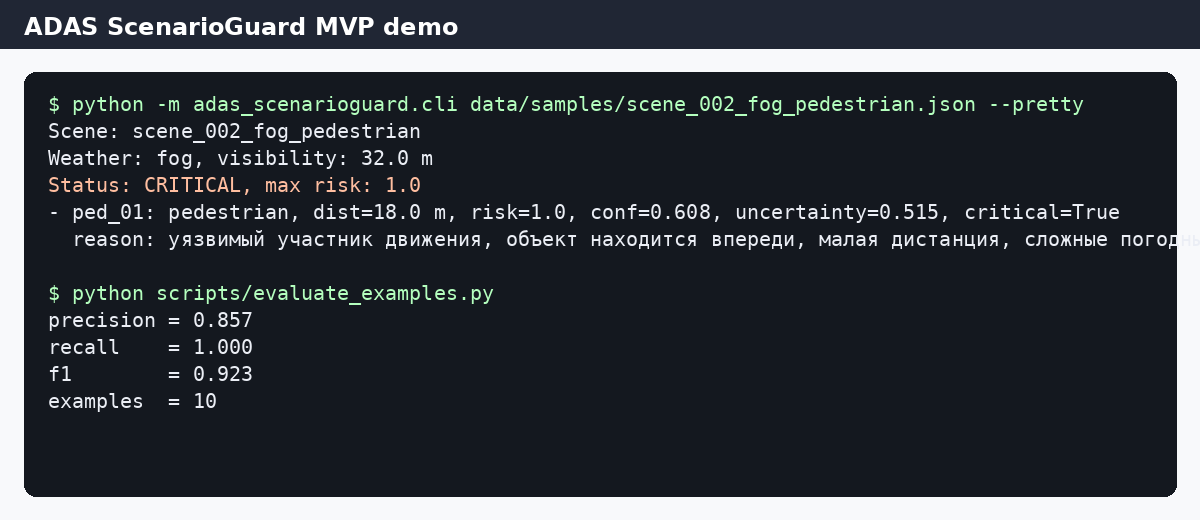
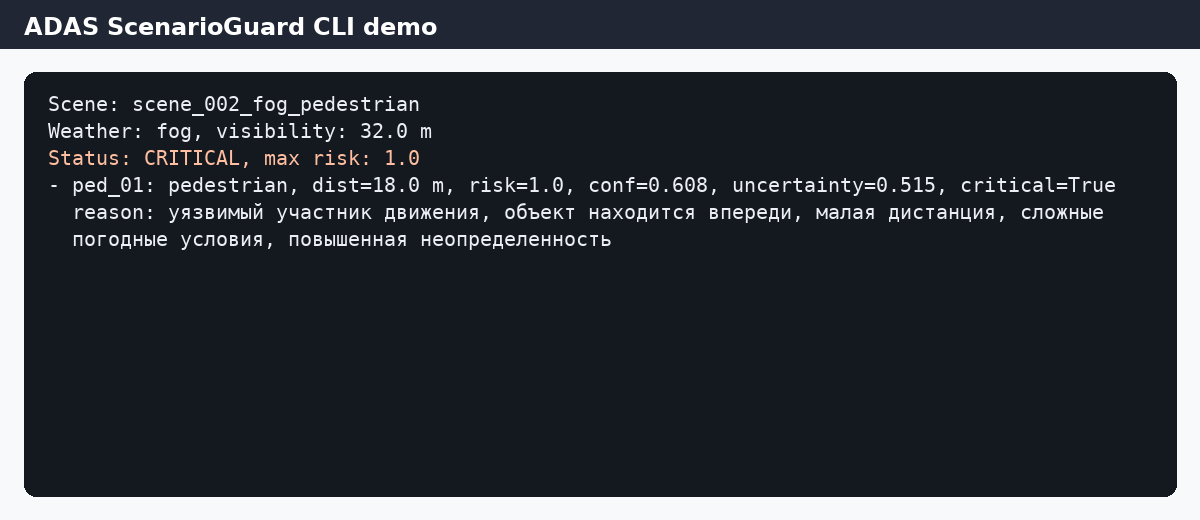
Clean public repository for final VKR package

diff --git a/scripts/export_results.py b/scripts/export_results.py
@@ -32,7 +32,7 @@ def write_reproducibility(metrics: dict) -> None:
 ## Окружение
 
 - Python: 3.10 или новее
-- Node.js: 20 или новее для сборки презентации
+- Node.js: 20 или новее для вспомогательных графических скриптов
 - ОС проверки: Windows
 - Вычислительный контур: CPU-friendly табличная модель
 
@@ -53,10 +53,7 @@ python scripts/train.py
 python scripts/evaluate.py
 python scripts/make_figures.py
 python scripts/make_diagrams.py
-python scripts/export_report_assets.py
 python scripts/export_results.py
-python scripts/build_documents.py
-node scripts/build_presentation.mjs
 python -m pytest -q
 ```
 
@@ -82,7 +79,7 @@ python -m pytest -q
 - F1: {primary["f1"]}
 - Accuracy: {primary["accuracy"]}
 - ROC AUC: {primary["roc_auc"]}
-- PR AUC: {primary["pr_auc"]}
+- PR AUC: {primary["pr_auc"]:.3f}
 - TP/FP/FN/TN: {primary["tp"]}/{primary["fp"]}/{primary["fn"]}/{primary["tn"]}
 
 ## Проверка на Windows
@@ -138,50 +135,69 @@ KITTI не содержит radar и не содержит готовой мет
 
 
 def write_defense_qna(metrics: dict) -> None:
-    primary = metrics["models"][metrics["primary_model"]]
-    text = f"""# Вопросы и ответы к защите
+    text = """# Короткие ответы к защите ВКР
 
-## 1. Почему это не классическое CV
+## 1. Почему не классическое CV?
 
-Классическое CV обычно отвечает на вопрос, где находится объект и к какому классу он относится. В этой работе рассматривается следующий слой: насколько результату восприятия можно доверять и нужно ли пометить сцену как критическую.
+Классическое CV обычно отвечает на вопрос, где находится объект и к какому классу он относится. В этой работе рассматривается следующий слой: насколько сцену нужно считать критической для ADAS с учетом риска, частичной видимости и ненадежности наблюдения.
 
-## 2. Почему это не полный автопилот
+## 2. Почему logistic regression, а не нейросеть?
 
-Прототип не управляет автомобилем. Он оценивает риск сцены и может быть использован как вспомогательный модуль тестирования ADAS.
+Цель эксперимента состояла в проверке scenario-level методики на табличных признаках из аннотаций KITTI. Logistic regression дает интерпретируемые веса, быстро повторяется и не смешивает текущий результат с отдельной задачей обучения raw image detector.
 
-## 3. Почему использованы KITTI-аннотации
+## 3. Почему KITTI, если тема про мультимодальность?
 
-KITTI дает реальные дорожные сцены с 2D/3D-разметкой объектов. Это позволяет честно обучить и проверить scenario-level модель без обучения raw image модели и без скачивания тяжелых изображений.
+KITTI содержит реальные дорожные сцены, 2D/3D-аннотации и признаки видимости объектов. Этого достаточно для проверки слоя оценки критичности сцены. Полная sensor fusion проверка с radar и временными рядами вынесена в следующий этап.
 
-## 4. Что будет при отказе камеры
+## 4. Что значит derived critical_scene label?
 
-В текущем KITTI-эксперименте отказ камеры не измеряется напрямую. В архитектуре прототипа качество камеры учитывается через отдельный reliability-признак, а при отказе система должна повышать uncertainty и переходить к осторожной классификации.
+Это не исходная метка KITTI. Метка построена фиксированным правилом из класса объекта, 3D distance, lateral position, occlusion и truncation. Правило зафиксировано до обучения и одинаково применяется ко всем split.
 
-## 5. Что будет при отказе LiDAR
+## 5. Как защищались от утечки данных?
 
-Для реального автомобиля отказ LiDAR снижает надежность 3D-геометрии. В прототипе это отражается через geometry quality и uncertainty. Для промышленного варианта нужна отдельная проверка на датасете с LiDAR dropout.
+Сначала строится единая таблица сцен, затем выполняется фиксированное разделение на train, validation и test. Стандартизация признаков, обучение модели и выбор порога опираются на train и validation. Test split используется только для финального расчета.
 
-## 6. Почему важнее recall и false negative rate
+## 6. Почему recall важнее accuracy?
 
-Пропуск критической сцены опаснее лишней тревоги. Поэтому для ADAS важен высокий recall и низкий FNR. В текущем test split FNR = {primary["false_negative_rate"]}.
+Accuracy может выглядеть высокой даже при пропусках опасных сцен. Для ADAS важнее не пропустить критический случай, поэтому recall и FNR показывают более важную сторону результата.
 
-## 7. Чем работа отличается от обычного sensor fusion
+## 7. Что означает FN в этой задаче?
 
-Обычный fusion объединяет сигналы для повышения точности детекции. Здесь fusion рассматривается вместе с надежностью, неопределенностью и критичностью сцены.
+FN означает сцену, которую fixed rule относит к critical_scene, но модель не подняла флаг риска. В прикладной интерпретации это опаснее лишнего предупреждения.
 
-## 8. Где научная новизна
+## 8. Что будет при отказе камеры?
 
-Новизна состоит в методике scenario-level оценки критичности, где опасная сцена рассматривается как сочетание класса объекта, геометрии, окклюзии, усечения, качества сенсорных признаков и неопределенности.
+В текущем эксперименте отказ камеры не моделируется как raw sensor failure. На уровне признаков ухудшение наблюдения отражается через occlusion, truncation и reliability proxy. Для промышленной версии нужен отдельный набор данных с отказами.
 
-## 9. Какие ограничения у прототипа
+## 9. Что будет при деградации LiDAR?
 
-KITTI не содержит radar и не содержит готовой метки critical_scene. Модель проверена как исследовательский прототип и не является сертифицированной системой безопасности.
+В работе используется геометрия из KITTI-аннотаций, а не поток LiDAR. Деградация LiDAR в реальной системе должна снижать надежность 3D-оценки и повышать uncertainty. Это направление нужно проверять в отдельном raw sensor pipeline.
 
-## 10. Как довести до промышленной проверки
+## 10. Почему нет radar в эксперименте?
 
-Нужно перейти к raw sensor pipeline, добавить реальные погодные сценарии, radar, LiDAR dropout, калибровку fusion, проверку на nuScenes или собственном полигоне, затем выполнить независимую валидацию и сертификацию.
+KITTI Object Detection не содержит radar-канал. Поэтому radar не входит в основной эксперимент и не влияет на метрики. Его можно добавить только при переходе на датасет с соответствующей модальностью, например nuScenes.
+
+## 11. Где научная новизна?
+
+Новизна состоит в scenario-level постановке: критичность сцены оценивается через сочетание класса объекта, геометрии, частичной видимости, reliability, uncertainty и risk prior. Это проверено на реальных KITTI-аннотациях.
+
+## 12. Что является практическим результатом?
+
+Практический результат: воспроизводимый pipeline, который строит таблицу сцен, обучает baseline, proposed и ablation модели, сохраняет метрики, графики и случаи ошибок. Его можно использовать как исследовательский модуль для поиска сложных сцен.
+
+## 13. Что нужно сделать для промышленной версии?
+
+Нужны raw image, LiDAR и radar pipeline, проверка на погодных условиях, отказах сенсоров, временных последовательностях, независимых test sets и инженерная валидация перед применением.
+
+## 14. Можно ли использовать прототип в реальном автомобиле?
+
+Нет. Прототип не управляет автомобилем и не является сертифицированной системой безопасности. Его корректная роль: анализ, тестирование и подготовка сложных сцен для дальнейшей проверки.
+
+## 15. Какие ограничения у работы?
+
+Главные ограничения: derived label вместо экспертной ADAS-разметки, отсутствие radar в KITTI, работа на scenario-level признаках, а не на raw sensor потоках, и отсутствие промышленной safety validation.
 """
-    (DOCS / "defense_qna.md").write_text(text, encoding="utf-8")
+    (DOCS / "defense_qna_final.md").write_text(text, encoding="utf-8")
 
 
 def main() -> int:

diff --git a/scripts/build_documents.py b/scripts/build_documents.py
@@ -789,7 +789,7 @@ def add_chapter_2_clean(doc: Document) -> None:
         ("2.15 Выводы по главе 2", conclusion[1]),
     ]
     extend_section(sections, "2.12", [
-        "В практической реализации правило critical_scene хранится не как скрытая экспертная договоренность, а как часть кода подготовки данных. Это важно для проверки: если преподаватель или другой исследователь заново выполнит подготовку KITTI-таблицы, он увидит не только итоговую метку, но и условия, из которых она получена.",
+        "В практической реализации правило critical_scene хранится не как скрытая экспертная договоренность, а как часть кода подготовки данных. Это важно для проверки: если проверяющий или другой исследователь заново выполнит подготовку KITTI-таблицы, он увидит не только итоговую метку, но и условия, из которых она получена.",
         "Пороговые значения выбраны как инженерная аппроксимация близости и ухудшенной видимости, а не как результат подбора по test split. В работе поэтому не утверждается, что именно эти пороги являются универсальными для всех ADAS-систем. Они задают проверяемую постановку, на которой можно сравнить baseline и proposed модели.",
         "Отдельно учитываются уязвимые участники движения, потому что пропуск пешехода или велосипедиста имеет иную цену, чем ошибка на дальнем транспортном средстве. Такая логика делает derived target ближе к задаче безопасности, чем простая классификация по количеству объектов.",
         "Occlusion и truncation включены в правило как признаки неполного наблюдения. Если объект виден частично, система восприятия может ошибиться не только в классе, но и в геометрии; поэтому такие сцены полезно рассматривать как кандидаты на критичность даже при умеренной дистанции.",

diff --git a/src/adas_scenarioguard/core.py b/src/adas_scenarioguard/core.py
@@ -1,6 +1,7 @@
-"""Core logic for ADAS ScenarioGuard MVP.
+"""Core logic for the ADAS ScenarioGuard JSON demonstration layer.
 
-The MVP works with simplified scene JSON files. It does not replace a real ADAS model.
+The demo works with simplified scene JSON files. It does not replace the KITTI
+scenario-level experiment used for the final model evaluation.
 It demonstrates the project logic: multimodal confidence fusion, uncertainty estimate,
 and critical scenario flagging.
 """
@@ -49,8 +50,8 @@ def clamp(value: float, low: float = 0.0, high: float = 1.0) -> float:
 def _sensor_reliability(sensor: str, weather: str, visibility_m: float, occlusion: float) -> float:
     """Return reliability weight for a sensor in a given scene.
 
-    The constants are simple engineering assumptions for MVP. They are not claimed
-    as trained model parameters.
+    The constants are simple engineering assumptions for the CLI demo. They are
+    not claimed as trained model parameters.
     """
     visibility_factor = clamp(visibility_m / 80.0, 0.25, 1.0)
 

diff --git a/scripts/make_demo_screenshot.py b/scripts/make_demo_screenshot.py
@@ -2,6 +2,7 @@
 from __future__ import annotations
 
 from pathlib import Path
+import textwrap
 
 try:
     from PIL import Image, ImageDraw, ImageFont
@@ -11,7 +12,10 @@ except ImportError as exc:
 ROOT = Path(__file__).resolve().parents[1]
 
 demo_text = (ROOT / "demo" / "cli_demo.txt").read_text(encoding="utf-8")
-lines = demo_text.splitlines()
+lines = []
+for raw_line in demo_text.splitlines():
+    wrapped = textwrap.wrap(raw_line, width=92, subsequent_indent="  ")
+    lines.extend(wrapped or [""])
 
 width = 1200
 line_height = 27
@@ -27,7 +31,7 @@ except Exception:
 
 # Header
 draw.rectangle((0, 0, width, 48), fill=(32, 38, 52))
-draw.text((24, 12), "ADAS ScenarioGuard MVP demo", font=title_font, fill=(255, 255, 255))
+draw.text((24, 12), "ADAS ScenarioGuard CLI demo", font=title_font, fill=(255, 255, 255))
 
 # Terminal area
 draw.rounded_rectangle((24, 72, width - 24, height - 24), radius=12, fill=(20, 24, 31))

diff --git a/scripts/evaluate_examples.py b/scripts/evaluate_examples.py
@@ -56,13 +56,13 @@ def main() -> int:
         "avg_ms_per_scene": round(avg_ms, 4),
     }
 
-    with (result_dir / "metrics.json").open("w", encoding="utf-8") as f:
+    with (result_dir / "demo_metrics.json").open("w", encoding="utf-8") as f:
         json.dump(metrics, f, ensure_ascii=False, indent=2)
 
-    with (result_dir / "predictions.json").open("w", encoding="utf-8") as f:
+    with (result_dir / "demo_predictions.json").open("w", encoding="utf-8") as f:
         json.dump(rows, f, ensure_ascii=False, indent=2)
 
-    with (result_dir / "metrics.csv").open("w", encoding="utf-8", newline="") as f:
+    with (result_dir / "demo_metrics.csv").open("w", encoding="utf-8", newline="") as f:
         writer = csv.writer(f)
         writer.writerow(["metric", "value"])
         for key, value in metrics.items():

diff --git a/scripts/export_report_assets.py b/scripts/export_report_assets.py
@@ -151,7 +151,7 @@ def write_run_summary(metrics: dict, summary: dict) -> None:
         f"F1: {primary['f1']}",
         f"Accuracy: {primary['accuracy']}",
         f"ROC AUC: {primary['roc_auc']}",
-        f"PR AUC: {primary['pr_auc']}",
+        f"PR AUC: {primary['pr_auc']:.3f}",
         f"Confusion matrix: TP={primary['tp']}, FP={primary['fp']}, FN={primary['fn']}, TN={primary['tn']}",
         "",
         "The target label is derived from real KITTI object annotations by a fixed rule. It is not an original KITTI benchmark target.",

diff --git a/src/adas_scenarioguard/cli.py b/src/adas_scenarioguard/cli.py
@@ -15,7 +15,7 @@ def load_scene(path: Path) -> Dict[str, Any]:
 
 
 def main() -> int:
-    parser = argparse.ArgumentParser(description="ADAS ScenarioGuard MVP")
+    parser = argparse.ArgumentParser(description="ADAS ScenarioGuard CLI demonstration")
     parser.add_argument("scene", type=Path, help="Path to input scene JSON")
     parser.add_argument("--output", type=Path, default=None, help="Optional output JSON path")
     parser.add_argument("--pretty", action="store_true", help="Print human-readable summary")

diff --git a/scripts/evaluate.py b/scripts/evaluate.py
@@ -133,7 +133,7 @@ def main() -> int:
         f"F1: {primary_metrics['f1']}",
         f"Accuracy: {primary_metrics['accuracy']}",
         f"ROC AUC: {primary_metrics['roc_auc']}",
-        f"PR AUC: {primary_metrics['pr_auc']}",
+        f"PR AUC: {primary_metrics['pr_auc']:.3f}",
         f"Confusion matrix: TP={primary_metrics['tp']}, FP={primary_metrics['fp']}, "
         f"FN={primary_metrics['fn']}, TN={primary_metrics['tn']}",
         "",

diff --git a/src/adas_scenarioguard/__init__.py b/src/adas_scenarioguard/__init__.py
@@ -1,3 +1,3 @@
-"""ADAS ScenarioGuard MVP package."""
+"""ADAS ScenarioGuard package."""
 
-__version__ = "0.1.0"
+__version__ = "1.0.0"

diff --git a/CHANGELOG.md b/CHANGELOG.md
@@ -9,10 +9,10 @@
 - Добавлены метрики precision, recall, F1, accuracy, FNR, FPR, ROC AUC, PR AUC, FPS и матрица ошибок.
 - Добавлены графики confusion matrix, ROC, Precision-Recall, сравнение моделей, анализ условий, ablation и литературный пример BEVFusion.
 - Добавлены pipeline, use case, component и deployment diagrams.
-- Добавлены документы `docs/reproducibility.md`, `docs/error_analysis.md` и `docs/defense_qna.md`.
+- Добавлены документы `docs/reproducibility.md`, `docs/error_analysis.md` и `docs/defense_qna_final.md`.
 - Обновлены README, структура проекта и тесты.
 
-## v0.1.0 - Initial MVP
+## v0.1.0 - Initial JSON demo
 
 - Добавлен CLI для анализа JSON-сцен.
 - Реализовано простое объединение оценок camera, LiDAR и radar.

diff --git a/README.md b/README.md
@@ -34,14 +34,19 @@ python scripts/train.py
 python scripts/evaluate.py
 python scripts/make_figures.py
 python scripts/make_diagrams.py
-python scripts/export_report_assets.py
 python scripts/export_results.py
-python scripts/build_documents.py
-node scripts/build_presentation.mjs
 python -m pytest -q
 ```
 
 После запуска формируются таблицы в `data/processed/`, метрики и ошибки в `results/`, графики в `figures/`, а финальный комплект для сдачи в `final/`.
+
+JSON-сцены в `data/samples/` оставлены как небольшая CLI-демонстрация:
+
+```bash
+python -m adas_scenarioguard.cli data/samples/scene_002_fog_pedestrian.json --pretty
+```
+
+Эта демонстрация не используется для обучения модели и не входит в расчет итоговых метрик ВКР.
 
 ## Модель и метрики
 

diff --git a/docs/reproducibility.md b/docs/reproducibility.md
@@ -5,7 +5,7 @@
 ## Окружение
 
 - Python: 3.10 или новее
-- Node.js: 20 или новее для сборки презентации
+- Node.js: 20 или новее для вспомогательных графических скриптов
 - ОС проверки: Windows
 - Вычислительный контур: CPU-friendly табличная модель
 
@@ -26,10 +26,7 @@ python scripts/train.py
 python scripts/evaluate.py
 python scripts/make_figures.py
 python scripts/make_diagrams.py
-python scripts/export_report_assets.py
 python scripts/export_results.py
-python scripts/build_documents.py
-node scripts/build_presentation.mjs
 python -m pytest -q
 ```
 
@@ -55,7 +52,7 @@ python -m pytest -q
 - F1: 0.911
 - Accuracy: 0.933
 - ROC AUC: 0.981
-- PR AUC: 0.97
+- PR AUC: 0.970
 - TP/FP/FN/TN: 509/66/34/888
 
 ## Проверка на Windows
